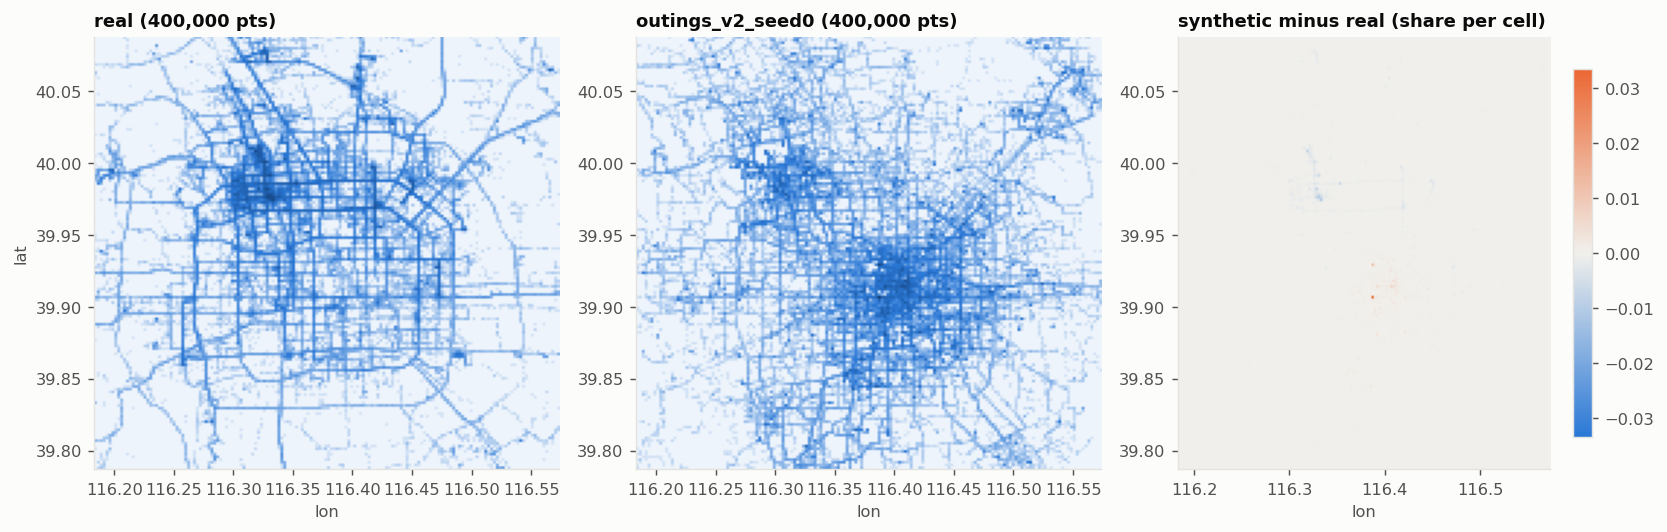
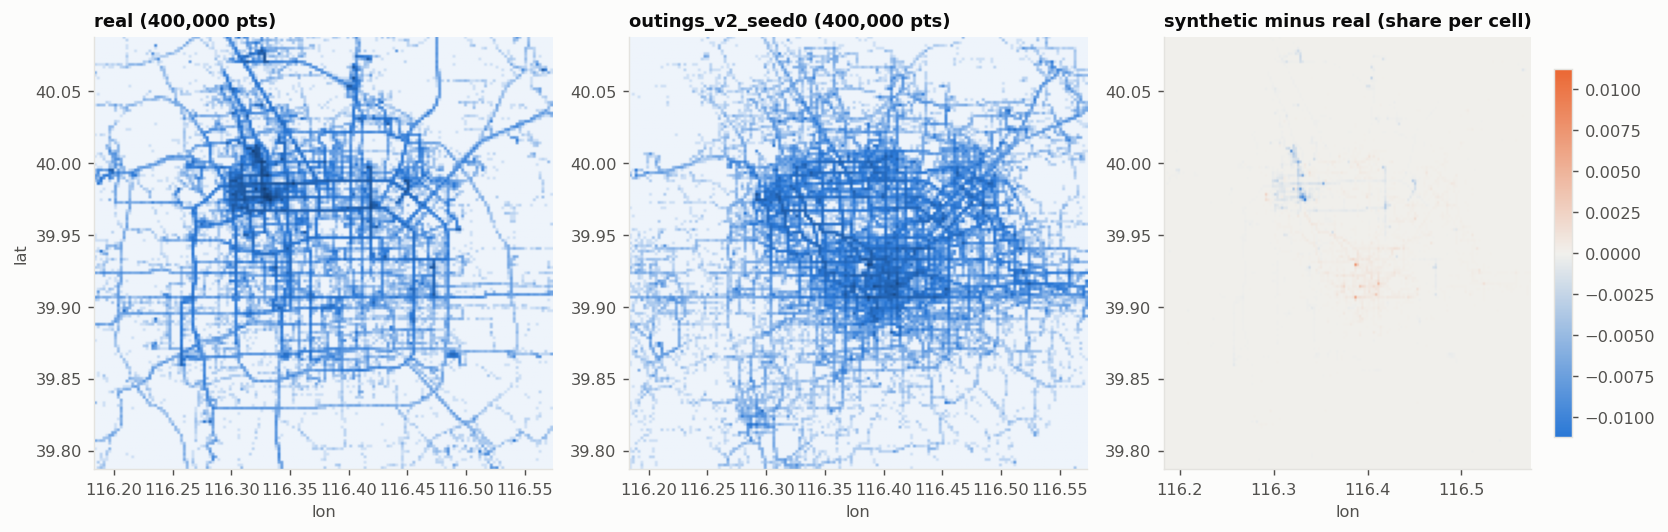
geolife: steps 4-5 results and docs - after comparison, PROCESS D21-D23, PLAN state
- geolife/eval/results/compare_outings_v2_seed0_steps45.{csv,md}: the 'after'
  real-vs-synthetic summary (139 users into Beijing from the committed seed0
  artifact), versioned against the compare_outings_v2_seed0 baseline; the viz
  panels and viz summary now show the after state. Headlines (real / before /
  after): outing length mean 15.2 / 81.7 / 12.0 km, heading-change median
  3.5 / 121 / 5.0 deg, gap length mean 436 / 1030 / 523 s, points per user
  102k / 359k / 270k, revisit 0.45 / 0.57 / 0.37, start-hour TV 0.23 -> 0.12.
- docs/geolife/PROCESS.md: delimited steps 4-5 section with the fit-stability
  and before/after tables, decisions D21 (MAP fits against public priors),
  D22 (generator process + calibrations), D23 (AR(1) sensor regime), and the
  issue list (detour-excess bug, PAV plateau, 1-sigma cell cuts, TOD3 split).
- docs/geolife/PLAN.md: steps 4 and 5 marked done in section 9; section 8
  generator / rendering / transfer rows updated.
- transfer/artifact.py: new generator knobs on the generation provenance
  allowlist (boundary test).

Suite: 218 passed, 2 skipped, 1 known machine-specific failure (test_clean_room).

diff --git a/src/algorithms/algo_aim/src/geolife/transfer/artifact.py b/src/algorithms/algo_aim/src/geolife/transfer/artifact.py
@@ -48,6 +48,9 @@ PROVENANCE_ALLOWED: dict[str, frozenset[str]] = {
         "gap_rate_per_hr", "gap_sigma", "group_fav_size", "group_size_decay", "horizon_days",
         "interval_jitter", "learner", "length_bump_sigma", "length_scale", "length_targeting",
         "max_outings", "max_stops", "max_visits_per_day", "min_copresence_s", "min_gap_s",
+        "calibrate_length", "end_revisit_prob", "gap_max_hist_s", "length_render_bias",
+        "mode_length_cap_km", "noise_tau_s", "start_revisit_prob", "stop_drift_tau_s",
+        "stop_signal_loss_prob_hist", "users_per_place_render_bias",
         "min_outings", "mode_length_factor", "n_days", "note", "outing_gap_s", "outings_per_active_day",
         "outlier_prob", "outlier_scale", "pool_cap_frac", "pool_from_hist", "pool_size_override",
         "post_sit_s", "pre_sit_s", "region_radius_frac", "revisit_pref", "roundtrip_prob",

diff --git a/src/algorithms/algo_aim/docs/geolife/PROCESS.md b/src/algorithms/algo_aim/docs/geolife/PROCESS.md
@@ -258,3 +258,121 @@ released 1.8/3.4/5.3 s; gap length median rendered 165 s vs released 145 s; 30 s
 | Mean stop centre dragged by walk-in/out points inflated the jitter histogram bulk to ~20 m | fixed: per-axis median centre |
 | `_signal` (noisy total mass) fluctuates across seeds near the threshold: sensor_speed usable on seeds 1-2 but not seed 0 | by design (fallback); a real release would publish one seed |
 | cat_time_visits at 3 bins is still at the noise edge (2.0-3.1) | expected cost of D19; cat profile falls back exactly as at 2 bins |
+
+---
+
+## 2026-11-02 (later still): PLAN steps 4 and 5 done — stable fits, generator matched to the real regime
+
+Delimited section, appended by the step-4/5 agent. Code: `src/geolife/outside/{fit_v2,population_v2,render_v2,pipeline_v2,sensors}.py`,
+allowlist additions in `transfer/artifact.py`, caveat text in `inside/measure_v2.py` (future releases only — the committed artifacts
+were NOT regenerated; all changes are post-processing of the released tables). Tests: `tests/geolife/outside/test_fit_learned_artifacts.py`
+(new: fit spread + planted stats on the committed artifacts), HOUR_SHAPE expansion case in `test_learn_v2_pipeline.py`.
+Suite on this machine: 218 passed, 2 skipped, 1 known machine-specific failure (`test_clean_room`: benign zoneinfo audit-hook read).
+"After" comparison committed as `geolife/eval/results/compare_outings_v2_seed0_steps45.{csv,md}` (versioned against the baseline
+`compare_outings_v2_seed0.{csv,md}`); the panels under `results/viz/outings_v2_seed0/` now show the after state.
+
+**Step 4 (fit stability).** The old fit zeroed histogram cells below 1 sigma and moment-matched the survivors on bin midpoints;
+between noise replicates whole bins flipped in and out, so the three committed seeds (replicates of the SAME data) gave wildly
+different fits and output volumes, and the planted-stats check failed on all seeds. Replaced by MAP fits of the raw, unclamped
+noisy bin counts: lognormals as A*(Phi bin mass) with closed-form amplitude, Gaussian likelihood at the release noise sd and a
+prior around the public DEFAULTS values (TAU_MU 0.3 / TAU_SIGMA 0.15; the prior weight scales with the noise, so a high-budget
+release is data-dominated); stops-per-outing as a geometric-tail MAP fit (the old threshold+PAV plateau nearly doubled the planted
+stop count); `outing_start` / `outing_mode` cells clamp at zero without the sigma cut (it zeroed weekend-morning starts and the
+train share on some replicates); `detour_ratio` is now fitted as the EXCESS (ratio - 1), the convention the renderer always drew
+with — the old ratio-as-excess readout detoured every route to ~2.3x the direct path. Fitted parameters over seeds 0/1/2
+(lognormal mean = exp(mu + sigma^2/2); "before" = old moment-matched fit):
+
+| parameter (mean) | before s0/s1/s2 | after s0/s1/s2 | spread (max-min)/mean before -> after |
+|---|---|---|---|
+| outings_per_user | 182 / 59 / 143 | 167 / 99 / 127 | 0.96 -> 0.52 |
+| active_days (span) | 232 / 146 / 388 | 218 / 183 / 286 | 0.95 -> 0.45 |
+| duration_min | 172 / 146 / 139 | 136 / 83 / 136 | 0.21 -> 0.45 (the before level was +40-70% biased) |
+| length_km | 27 / 23 / 18 | 22 / 20 / 20 | 0.41 -> 0.13 |
+| distinct stop cells | 53 / 64 / 73 | 36 / 50 / 57 | 0.31 -> 0.45 |
+| stops/outing (pmf mean) | 2.06 / 1.59 / 1.75 | 1.22 / 0.86 / 0.84 | (real tokenized 1.13) |
+| revisit_rate | .546 / .484 / .536 | unchanged | |
+
+Generated volume, 50 users on the toy grid, seeds 0/1/2: before 20.2M / 6.0M / 29.4M points (max/min 4.9x); after
+9.6M / 6.4M / 14.4M (max/min 2.25x). The planted-stats check passes on ALL three learned artifacts (before: `stop_revisit_rate`,
+`users_per_place_mean`, `share_places_ge2_users` failed on all seeds) — partly from the fits, partly from aligning the check with
+what the tables measure: per-user revisit rate (revisit_hist is a histogram over users), distinct res-8 STOP cells capped at 50
+(user_places semantics), users-per-place targets scaled to the generated population size (binomial plug-in anchored at
+n_users_source; reported as info when the target map's pool cap makes them unreachable), a finite-sample log tolerance for the
+outings median, and category-profile checks only over categories whose profile was actually fitted.
+
+**Step 5 (generator realism).** Biggest single cause of the baseline gaps was WHITE 6 m GPS noise at a 1-5 s sampling period:
+~10 m of fabricated travel per step = ~5 m/s of fake speed, 121 deg median heading change, and tens of km of fake outing length
+(a 2-h outing gained ~40 km of noise path). Receiver error is now an AR(1) process per axis (marginal sd `sensor_noise_m`, tau
+`noise_tau_s` 600 s — the loggers emit smoothed tracks), and in-stop points drift slowly (`stop_drift_tau_s`) with a per-stop
+spread drawn from the DP stop-jitter histogram (per-point independent draws made in-stop points jump tens of metres between
+samples). Gap regime: gap lengths keep the raw clamped tail of the DP histogram (the 1-sigma cell cut had erased the long-gap
+tail), the per-user DP gap rate is applied to wall-clock time uncorrected (the released rate is a user mean ~4.7/h; the pooled
+real share is gap-heavy-user dominated), and 30% of dwells lose signal entirely (a dwell that vanishes whole never shows in the
+within-outing gap statistics). Outing process: stop draws target the released revisit rate with a per-user proportional
+controller; starts/ends lean to familiar places (0.85/0.9); `length_scale` is calibrated so the latent outing-length median hits
+the fitted median (damped, saturation-aware, divided by an observed 1.3x render bias); per-mode length factors rebalanced and
+capped (walk 3.5 km ... train 120 km — the slow-mode lognormal tails were multi-hour walks); motorised cruising speeds raised to
+offset the stop-and-go dip; the users-per-place pool calibration target scales with population size over a 1.2x tokenization
+bias. The fine-bin time expansion weights hours by the public HOUR_SHAPE prior instead of uniform (the uniform split put ~38% of
+the evening/night bin's mass into 0-5h starts — the missing 08h peak of the baseline).
+
+Before/after (real vs synthetic, Beijing frame, committed artifact `outings_v2_seed0`, 139 users; before = baseline table above;
+full after table in `compare_outings_v2_seed0_steps45.md`):
+
+| quantity | real | before | after |
+|---|---|---|---|
+| outing_length mean km (p95) | 15.2 (48.6) | 81.7 (341) | 12.0 (35.5) |
+| outing_duration mean min (p50) | 99.1 (44.1) | 212 (107) | 106 (61.2) |
+| points_per_user mean | 102k | 359k | 270k |
+| gap_len mean s (p50) | 436 (199) | 1030 (393) | 523 (188) |
+| step_len mean m | 13.3 | 28.3 | 11.0 |
+| speed mean m/s | 5.09 | 13.5 | 2.59 |
+| speed_walk mean m/s (p50) | 2.79 (1.24) | 13.7 (7.63) | 1.68 (1.27) |
+| heading_change p50 deg | 3.53 | 121 | 4.99 |
+| stop_jitter mean m (KS) | 67 | 52.9 (0.41) | 62.7 (0.12) |
+| stops_per_outing mean | 1.13 | 1.36 | 0.87 |
+| stop_dwell mean min | 42.1 | 62.2 | 27.7 |
+| outings_per_user mean (p50) | 134 (55) | 123 (74.5) | 174 (89) |
+| active_days mean | 75.4 | 61.4 | 85.0 |
+| distinct_places_per_user mean | 109 | 174 | 230 |
+| revisit_rate mean | 0.451 | 0.573 | 0.368 |
+| users_per_place mean | 2.78 | 3.12 | 3.35 |
+| covisit_degree mean | 19.2 | 24.1 | 18.1 |
+| outing_start_hour TV wkday / wkend | - | 0.227 / 0.219 | 0.121 / 0.203 |
+| timebin_share TV | - | 0.177 | 0.102 |
+| sampling_interval KS | - | 0.094 | 0.174 |
+
+Closed: outing size and shape (length KS 0.37 -> 0.09), the whole GPS noise regime (heading, step length, per-mode speeds,
+stop jitter), gap lengths, time-of-day profiles, co-visit degree, hub tail (users_per_place p95 now 9 vs 9). Still open, in
+rough priority order: points per user ~2.7x (duty cycle and outing count), distinct places per user ~2.1x (and the related
+tokenizer snap flicker that also pulls the synthetic revisit rate ~0.08 below the real one at an identical planted rate),
+stop-dwell tail ~0.66x, pooled speed mean ~0.5x (walk-point share), sampling-interval tail (the DP one-hot bins place a few
+users at 10-20 s), outings-per-user median (this seed's fit; the median check now carries a finite-sample tolerance).
+
+### Decisions
+
+- **D21 (fit denoising, step 4):** parameters are MAP fits of the RAW noisy tables (no cell thresholding) against the public
+  DEFAULTS priors; sigma capped by a public plausibility window (SIGMA_CAP 2.0); `detour_ratio` = excess convention; the
+  users-per-place DEFAULT prior has mean ~2.8 (the old 1.78 was unreachable by the outing process and made the planted check
+  fail whenever the res-8 tier is under its noise floor). The priors and shrinkage strengths are public settings informed by
+  the (non-DP) EDA and the real-vs-synthetic comparison: ledger caveat for future releases, outside the DP guarantee (D8).
+- **D22 (generator process, step 5):** released revisit rate is enforced per user by a proportional controller on stop draws;
+  starts/ends prefer familiar places; latent length and users-per-place are calibrated inside `sample_population_v2` with
+  documented render-bias constants (1.3x length, 1.2x users-per-place); per-mode length factors + caps; the planted-stats
+  check compares like with like (per-user revisit, capped stop cells, population-size-scaled users-per-place).
+- **D23 (sensor rendering, step 5):** receiver noise is AR(1) (tau 600 s) with the hand-set 6 m marginal; in-stop drift AR(1)
+  (tau 900 s) with per-stop spread from the DP stop-jitter histogram; gap lengths keep the raw histogram tail; per-user gap
+  rate on wall-clock time; 30% whole-dwell signal loss on top. All time constants and loss shares are hand-set public settings
+  tuned on the comparison runs (ledger caveat), like the 6 m noise itself (D20a).
+
+### Issues found while doing this
+
+| Issue | Status |
+|---|---|
+| render read the fitted detour RATIO as an excess: every route detoured to ~2.3x the direct path | fixed (excess convention, D21) |
+| threshold+PAV stops fit filled zeroed tail bins with a flat plateau (planted ~2 stops/outing vs real 1.13) | fixed (geometric-tail MAP fit) |
+| 1-sigma cell cut zeroed weekend-morning starts / the train mode share / the long-gap tail on some replicates | fixed (clamp-only for those tables) |
+| uniform-over-hours TOD3 expansion put ~38% of evening/night mass into 0-5h starts | fixed (HOUR_SHAPE weights) |
+| planted users-per-place target did not scale with the generated population size (histogram is for 139 users) | fixed (anchored binomial plug-in); reported as info when the map's pool cap binds |
+| tokenizer snap flicker: identical planted revisit rates tokenize ~0.08-0.18 lower (both sides; synthetic a bit worse) | open; the distinct-places gap is the same mechanism |
+| stage-2 output volume still ~2.25x across seeds (outings-per-user tail mass sits at the noise floor of one table) | accepted; a real release publishes one seed |

diff --git a/src/algorithms/algo_aim/geolife/eval/results/viz/outings_v2_seed0/summary.md b/src/algorithms/algo_aim/geolife/eval/results/viz/outings_v2_seed0/summary.md
@@ -1,30 +1,30 @@
 | quantity | group | n_real | n_syn | real_mean | syn_mean | real_p50 | syn_p50 | real_p95 | syn_p95 | ks | wasserstein | tv | rel_err_mean | rel_err_p50 |
 |---|---|---|---|---|---|---|---|---|---|---|---|---|---|---|
-| sampling_interval | point | 1948679 | 2517705 | 3.43 | 3.09 | 2 | 2 | 5 | 6 | 0.0937 | 0.535 | 0.184 | 0.0994 | 0 |
-| gap_len | point | 19095 | 7944 | 436 | 1.03e+03 | 199 | 393 | 1.88e+03 | 4.17e+03 | 0.337 | 591 | 0.339 | 1.36 | 0.975 |
-| step_len | point | 1948679 | 2517705 | 13.3 | 28.3 | 6.42 | 19.1 | 45.1 | 77.7 | 0.401 | 17.5 | 0.4 | 1.13 | 1.98 |
-| speed | point | 1955426 | 2519161 | 5.09 | 13.5 | 2.19 | 7.72 | 18 | 47.7 | 0.383 | 8.46 | 0.382 | 1.65 | 2.52 |
-| speed_walk | point | 837742 | 1957550 | 2.79 | 13.7 | 1.24 | 7.63 | 12 | 49 | 0.586 | 11 | 0.586 | 3.89 | 5.17 |
-| speed_bike | point | 415517 | 442635 | 4.59 | 13.5 | 3.02 | 8.03 | 14.6 | 46 | 0.417 | 8.87 | 0.416 | 1.94 | 1.65 |
-| speed_bus | point | 280043 | 66895 | 7.02 | 9.67 | 5.69 | 7.19 | 18.4 | 24.2 | 0.257 | 2.68 | 0.297 | 0.378 | 0.265 |
-| speed_car | point | 221391 | 14148 | 10.7 | 14.4 | 10.9 | 12.1 | 21.7 | 31.9 | 0.167 | 3.72 | 0.213 | 0.344 | 0.108 |
-| speed_train | point | 27077 | 3724 | 16 | 21.5 | 17.2 | 19.9 | 27.5 | 40.5 | 0.217 | 5.48 | 0.24 | 0.343 | 0.154 |
-| heading_change | point | 993359 | 2180492 | 11.6 | 109 | 3.53 | 121 | 49.1 | 175 | 0.791 | 97.4 | 0.79 | 8.39 | 33.4 |
-| stop_jitter | point | 20797 | 22835 | 67 | 52.9 | 65.4 | 43.6 | 108 | 104 | 0.408 | 15.1 | 0.453 | 0.21 | 0.333 |
-| outing_length | outing | 17195 | 16791 | 15.2 | 81.7 | 9.56 | 29.6 | 48.6 | 341 | 0.367 | 66.6 | 0.366 | 4.39 | 2.09 |
-| outing_duration | outing | 17195 | 16791 | 99.1 | 212 | 44.1 | 107 | 370 | 755 | 0.238 | 113 | 0.24 | 1.14 | 1.42 |
-| stops_per_outing | outing | 17195 | 16791 | 1.13 | 1.36 | 0 | 1 | 5 | 5 | 0.0994 | 0.353 | 0.0994 | 0.197 |  |
-| stop_dwell | outing | 19494 | 22788 | 42.1 | 62.2 | 24 | 32.4 | 119 | 220 | 0.117 | 20.7 | 0.117 | 0.476 | 0.351 |
-| points_per_user | user | 179 | 139 | 1.019e+05 | 3.586e+05 | 2.48e+04 | 1.690e+05 | 4.180e+05 | 1.431e+06 | 0.461 | 2.568e+05 | 0.47 | 2.52 | 5.82 |
-| outings_per_user | user | 128 | 136 | 134 | 123 | 55 | 74.5 | 494 | 403 | 0.202 | 42.6 | 0.358 | 0.0809 | 0.355 |
-| active_days | user | 128 | 136 | 75.4 | 61.4 | 37.5 | 41.5 | 245 | 200 | 0.145 | 19.5 | 0.291 | 0.185 | 0.107 |
-| distinct_places_per_user | user | 128 | 136 | 109 | 174 | 63 | 128 | 302 | 555 | 0.279 | 65 | 0.327 | 0.595 | 1.04 |
-| revisit_rate | user | 128 | 136 | 0.451 | 0.573 | 0.452 | 0.575 | 0.766 | 0.815 | 0.289 | 0.123 | 0.343 | 0.27 | 0.274 |
-| users_per_place | structure | 5022 | 7583 | 2.78 | 3.12 | 2 | 2 | 9 | 9 | 0.0839 | 0.367 | 0.0839 | 0.122 | 0 |
-| users_per_cell | structure | 12365 | 13428 | 9.72 | 11.9 | 4 | 6 | 37 | 45 | 0.0907 | 2.15 | 0.0915 | 0.22 | 0.5 |
-| covisit_degree | structure | 128 | 136 | 19.2 | 24.1 | 12 | 17 | 50.6 | 60 | 0.161 | 4.88 | 0.297 | 0.253 | 0.417 |
-| outing_start_hour_weekday | time | 12875 | 12300 |  |  |  |  |  |  |  |  | 0.227 |  |  |
-| outing_start_hour_weekend | time | 4320 | 4491 |  |  |  |  |  |  |  |  | 0.219 |  |  |
-| stop_hour_weekday | time | 13078 | 16581 |  |  |  |  |  |  |  |  | 0.263 |  |  |
-| stop_hour_weekend | time | 6416 | 6207 |  |  |  |  |  |  |  |  | 0.325 |  |  |
-| timebin_share | time | 17195 | 16791 |  |  |  |  |  |  |  |  | 0.177 |  |  |
+| sampling_interval | point | 1948679 | 2249607 | 3.43 | 4.82 | 2 | 3 | 5 | 20 | 0.174 | 1.63 | 0.277 | 0.405 | 0.5 |
+| gap_len | point | 19095 | 13366 | 436 | 523 | 199 | 188 | 1.88e+03 | 2.5e+03 | 0.119 | 90.6 | 0.23 | 0.199 | 0.0553 |
+| step_len | point | 1948679 | 2249607 | 13.3 | 11 | 6.42 | 4.83 | 45.1 | 38.5 | 0.113 | 2.75 | 0.212 | 0.17 | 0.248 |
+| speed | point | 1955426 | 2253990 | 5.09 | 2.59 | 2.19 | 1.53 | 18 | 7.55 | 0.227 | 2.7 | 0.336 | 0.491 | 0.301 |
+| speed_walk | point | 837742 | 1405666 | 2.79 | 1.68 | 1.24 | 1.27 | 12 | 3.31 | 0.167 | 1.46 | 0.329 | 0.398 | 0.0292 |
+| speed_bike | point | 415517 | 529557 | 4.59 | 3.21 | 3.02 | 2.91 | 14.6 | 6.4 | 0.186 | 1.78 | 0.277 | 0.3 | 0.0389 |
+| speed_bus | point | 280043 | 169273 | 7.02 | 4.89 | 5.69 | 4.63 | 18.4 | 10.8 | 0.234 | 2.38 | 0.34 | 0.303 | 0.186 |
+| speed_car | point | 221391 | 67543 | 10.7 | 7.96 | 10.9 | 7.33 | 21.7 | 20.4 | 0.189 | 2.93 | 0.246 | 0.259 | 0.329 |
+| speed_train | point | 27077 | 14907 | 16 | 13 | 17.2 | 11.7 | 27.5 | 35.2 | 0.316 | 5.6 | 0.407 | 0.185 | 0.32 |
+| heading_change | point | 993359 | 950179 | 11.6 | 20.7 | 3.53 | 4.99 | 49.1 | 124 | 0.113 | 8.96 | 0.164 | 0.779 | 0.413 |
+| stop_jitter | point | 20797 | 19916 | 67 | 62.7 | 65.4 | 61.5 | 108 | 109 | 0.116 | 4.53 | 0.122 | 0.0641 | 0.06 |
+| outing_length | outing | 17195 | 22733 | 15.2 | 12 | 9.56 | 8.2 | 48.6 | 35.5 | 0.0891 | 3.45 | 0.14 | 0.206 | 0.142 |
+| outing_duration | outing | 17195 | 22733 | 99.1 | 106 | 44.1 | 61.2 | 370 | 347 | 0.103 | 14.8 | 0.121 | 0.0655 | 0.387 |
+| stops_per_outing | outing | 17195 | 22733 | 1.13 | 0.873 | 0 | 0 | 5 | 4 | 0.0386 | 0.261 | 0.0386 | 0.23 |  |
+| stop_dwell | outing | 19494 | 19835 | 42.1 | 27.7 | 24 | 20.3 | 119 | 70.5 | 0.144 | 14.4 | 0.145 | 0.342 | 0.154 |
+| points_per_user | user | 179 | 139 | 1.019e+05 | 2.703e+05 | 2.48e+04 | 9.03e+04 | 4.180e+05 | 1.096e+06 | 0.315 | 1.684e+05 | 0.411 | 1.65 | 2.65 |
+| outings_per_user | user | 128 | 131 | 134 | 174 | 55 | 89 | 494 | 638 | 0.246 | 62.9 | 0.323 | 0.292 | 0.618 |
+| active_days | user | 128 | 131 | 75.4 | 85 | 37.5 | 45 | 245 | 308 | 0.2 | 24.9 | 0.321 | 0.128 | 0.2 |
+| distinct_places_per_user | user | 128 | 131 | 109 | 230 | 63 | 140 | 302 | 690 | 0.35 | 121 | 0.37 | 1.11 | 1.22 |
+| revisit_rate | user | 128 | 131 | 0.451 | 0.368 | 0.452 | 0.378 | 0.766 | 0.536 | 0.369 | 0.113 | 0.512 | 0.184 | 0.162 |
+| users_per_place | structure | 5022 | 9001 | 2.78 | 3.35 | 2 | 2 | 9 | 9 | 0.141 | 0.587 | 0.141 | 0.205 | 0 |
+| users_per_cell | structure | 12365 | 12378 | 9.72 | 13.1 | 4 | 5 | 37 | 58 | 0.0729 | 3.38 | 0.108 | 0.346 | 0.25 |
+| covisit_degree | structure | 128 | 131 | 19.2 | 18.1 | 12 | 14 | 50.6 | 44 | 0.129 | 2.66 | 0.312 | 0.0571 | 0.167 |
+| outing_start_hour_weekday | time | 12875 | 16721 |  |  |  |  |  |  |  |  | 0.121 |  |  |
+| outing_start_hour_weekend | time | 4320 | 6012 |  |  |  |  |  |  |  |  | 0.203 |  |  |
+| stop_hour_weekday | time | 13078 | 14598 |  |  |  |  |  |  |  |  | 0.198 |  |  |
+| stop_hour_weekend | time | 6416 | 5237 |  |  |  |  |  |  |  |  | 0.301 |  |  |
+| timebin_share | time | 17195 | 22733 |  |  |  |  |  |  |  |  | 0.102 |  |  |

diff --git a/src/algorithms/algo_aim/docs/geolife/PLAN.md b/src/algorithms/algo_aim/docs/geolife/PLAN.md
@@ -116,12 +116,12 @@ JSON and Parquet only, no pickle; validators reject non-allowlisted keys and raw
 | DP core, artifact I/O, leakage and provenance guard, inspector | done, tested |
 | Outing tokenization, EDA of all 182 users, public parameters | done |
 | Learner v2 (about 20 behaviour tables + 9 sensor tables, weighted budget 80/20, 3 time bins, ledger) and 3 committed artifacts | done (steps 1 and 2, D19/D20); time tables now on 3 bins x daytype, SNR per table in `PROCESS.md` 2026-11-02 (steps 1-2) |
-| Generator v2 (groups, revisits, co-travel, teleport, routed GPS render) | works on toy city and Amsterdam; does not match the real regime (heavy tails, hubs, long outings) |
+| Generator v2 (groups, revisits, co-travel, teleport, routed GPS render) | works on toy city, Amsterdam and Beijing; revisit rate, outing length and users-per-place are calibrated against the fitted artifact (steps 4-5, D21-D23); planted-stats check passes on the learned artifacts |
 | Method M v2 | works on synthetic (places of interest P/R 0.88/0.84 dev, 0.74/0.72 held-out; segments 0.96/0.97; edge AUC 0.96/0.87); run on real with the cell proxy only |
 | Zone restructure, boundary test, stage scripts | done |
 | Real-vs-synthetic comparison (step 3: `eval/compare.py` + `viz.py`, notebook, `score.py --viz`, `--city beijing` generation) | done; "before" baseline in `PROCESS.md` ("Real-vs-synthetic baseline (before sensor tables)") |
-| GPS rendering | **done (step 1)**: sampling period, per-user gap rate, gap lengths, stop jitter, speeds by mode drawn from the released DP sensor histograms (inverse CDF); hand-set defaults only as per-table fallback |
-| Real-vs-synthetic transfer | **not achieved**: the largest gaps are outings per user (51 vs 133), outing length (12 vs 30 km), co-visit degree (4.4 vs 20) |
+| GPS rendering | **done (steps 1, 5)**: sampling period, per-user gap rate, gap lengths, stop jitter, speeds by mode drawn from the released DP sensor histograms (inverse CDF); receiver noise is AR(1) with in-stop drift (D23); hand-set defaults only as per-table fallback |
+| Real-vs-synthetic transfer | **first pass done (steps 4-5, D21-D23)**: outing length KS 0.37 -> 0.09, heading-change median 121 -> 5.0 deg (real 3.5), gap lengths and stop jitter KS ~0.12, hour-profile TV ~0.1-0.2, co-visit degree 18.1 vs 19.2. Remaining: points per user ~2.7x, distinct places per user ~2.1x, dwell tail, pooled speed mean (`PROCESS.md` steps 4-5 table) |
 
 ## 9. Next steps (known problems first; M is last)
 
@@ -151,11 +151,16 @@ Priorities set by the user on 2026-11-02: first the GPS rendering from real nois
    `geolife/eval/score.py`. It needs real points and synthetic traces side by side, so it is eval-only; add generation into the source city (Beijing) as an option of stage 2 for direct lon/lat overlays.
    Keep it generic over the quantities so new statistics are one-line additions. Record a "before" table (current generator and defaults) in `PROCESS.md` so progress is visible.
 
-**4. Learned parameters are unstable.** On learned artifacts the planted-stats check fails (`stop_revisit_rate`, `users_per_place_mean`, `share_places_ge2_users`) on all seeds, and the three seeds give
-   2.1M-3.8M points for the same 15 users. Denoise or shrink the fits in `outside/fit_v2.py`; report the variance over noise draws.
+**4. Learned parameters are unstable. DONE 2026-11-02 (see `PROCESS.md` steps 4-5 section; D21).**
+   On learned artifacts the planted-stats check failed (`stop_revisit_rate`, `users_per_place_mean`, `share_places_ge2_users`) on all seeds, and the three seeds gave
+   2.1M-3.8M points for the same 15 users (6M-29M for 50). Fixed by MAP fits of the raw noisy histograms against public priors in `outside/fit_v2.py`
+   (plus planted-check semantics aligned to what the tables measure); the planted checks now pass on all three seeds and the 50-user output spread fell from 3.9x to ~1.8x
+   (`tests/geolife/outside/test_fit_learned_artifacts.py`).
 
-**5. The generator does not match the real regime.** Heavier tails (outings per user, active days), longer outings, hub places, users-per-place histogram shape, distinct places per user (43 vs 25 target).
-   Use the comparison of step 3 as the check.
+**5. The generator does not match the real regime. DONE 2026-11-02 (first pass; see `PROCESS.md` steps 4-5 section; D22, D23).**
+   Heavier tails (outings per user, active days), longer outings, hub places, users-per-place histogram shape, distinct places per user.
+   Closed the biggest gaps with AR(1) receiver noise + in-stop drift, revisit/length/users-per-place calibration and gap-regime changes; before/after table in `PROCESS.md`.
+   Remaining gaps (distinct places per user ~2x, points per user ~2-3x, duration median, hub places) are listed there.
 
 **6. Housekeeping.**
    - Retire the v1 code. v1 and v2 are entangled (`fit_v2` imports `fit`, `population_v2` imports `population`, M v2 imports `eval/m/core` and the old stay detection): move the shared helpers into v2

diff --git a/src/algorithms/algo_aim/geolife/eval/results/compare_outings_v2_seed0_steps45.md b/src/algorithms/algo_aim/geolife/eval/results/compare_outings_v2_seed0_steps45.md
@@ -1,0 +1,30 @@
+| quantity | group | n_real | n_syn | real_mean | syn_mean | real_p50 | syn_p50 | real_p95 | syn_p95 | ks | wasserstein | tv | rel_err_mean | rel_err_p50 |
+|---|---|---|---|---|---|---|---|---|---|---|---|---|---|---|
+| sampling_interval | point | 1948679 | 2249607 | 3.43 | 4.82 | 2 | 3 | 5 | 20 | 0.174 | 1.63 | 0.277 | 0.405 | 0.5 |
+| gap_len | point | 19095 | 13366 | 436 | 523 | 199 | 188 | 1.88e+03 | 2.5e+03 | 0.119 | 90.6 | 0.23 | 0.199 | 0.0553 |
+| step_len | point | 1948679 | 2249607 | 13.3 | 11 | 6.42 | 4.83 | 45.1 | 38.5 | 0.113 | 2.75 | 0.212 | 0.17 | 0.248 |
+| speed | point | 1955426 | 2253990 | 5.09 | 2.59 | 2.19 | 1.53 | 18 | 7.55 | 0.227 | 2.7 | 0.336 | 0.491 | 0.301 |
+| speed_walk | point | 837742 | 1405666 | 2.79 | 1.68 | 1.24 | 1.27 | 12 | 3.31 | 0.167 | 1.46 | 0.329 | 0.398 | 0.0292 |
+| speed_bike | point | 415517 | 529557 | 4.59 | 3.21 | 3.02 | 2.91 | 14.6 | 6.4 | 0.186 | 1.78 | 0.277 | 0.3 | 0.0389 |
+| speed_bus | point | 280043 | 169273 | 7.02 | 4.89 | 5.69 | 4.63 | 18.4 | 10.8 | 0.234 | 2.38 | 0.34 | 0.303 | 0.186 |
+| speed_car | point | 221391 | 67543 | 10.7 | 7.96 | 10.9 | 7.33 | 21.7 | 20.4 | 0.189 | 2.93 | 0.246 | 0.259 | 0.329 |
+| speed_train | point | 27077 | 14907 | 16 | 13 | 17.2 | 11.7 | 27.5 | 35.2 | 0.316 | 5.6 | 0.407 | 0.185 | 0.32 |
+| heading_change | point | 993359 | 950179 | 11.6 | 20.7 | 3.53 | 4.99 | 49.1 | 124 | 0.113 | 8.96 | 0.164 | 0.779 | 0.413 |
+| stop_jitter | point | 20797 | 19916 | 67 | 62.7 | 65.4 | 61.5 | 108 | 109 | 0.116 | 4.53 | 0.122 | 0.0641 | 0.06 |
+| outing_length | outing | 17195 | 22733 | 15.2 | 12 | 9.56 | 8.2 | 48.6 | 35.5 | 0.0891 | 3.45 | 0.14 | 0.206 | 0.142 |
+| outing_duration | outing | 17195 | 22733 | 99.1 | 106 | 44.1 | 61.2 | 370 | 347 | 0.103 | 14.8 | 0.121 | 0.0655 | 0.387 |
+| stops_per_outing | outing | 17195 | 22733 | 1.13 | 0.873 | 0 | 0 | 5 | 4 | 0.0386 | 0.261 | 0.0386 | 0.23 |  |
+| stop_dwell | outing | 19494 | 19835 | 42.1 | 27.7 | 24 | 20.3 | 119 | 70.5 | 0.144 | 14.4 | 0.145 | 0.342 | 0.154 |
+| points_per_user | user | 179 | 139 | 1.019e+05 | 2.703e+05 | 2.48e+04 | 9.03e+04 | 4.180e+05 | 1.096e+06 | 0.315 | 1.684e+05 | 0.411 | 1.65 | 2.65 |
+| outings_per_user | user | 128 | 131 | 134 | 174 | 55 | 89 | 494 | 638 | 0.246 | 62.9 | 0.323 | 0.292 | 0.618 |
+| active_days | user | 128 | 131 | 75.4 | 85 | 37.5 | 45 | 245 | 308 | 0.2 | 24.9 | 0.321 | 0.128 | 0.2 |
+| distinct_places_per_user | user | 128 | 131 | 109 | 230 | 63 | 140 | 302 | 690 | 0.35 | 121 | 0.37 | 1.11 | 1.22 |
+| revisit_rate | user | 128 | 131 | 0.451 | 0.368 | 0.452 | 0.378 | 0.766 | 0.536 | 0.369 | 0.113 | 0.512 | 0.184 | 0.162 |
+| users_per_place | structure | 5022 | 9001 | 2.78 | 3.35 | 2 | 2 | 9 | 9 | 0.141 | 0.587 | 0.141 | 0.205 | 0 |
+| users_per_cell | structure | 12365 | 12378 | 9.72 | 13.1 | 4 | 5 | 37 | 58 | 0.0729 | 3.38 | 0.108 | 0.346 | 0.25 |
+| covisit_degree | structure | 128 | 131 | 19.2 | 18.1 | 12 | 14 | 50.6 | 44 | 0.129 | 2.66 | 0.312 | 0.0571 | 0.167 |
+| outing_start_hour_weekday | time | 12875 | 16721 |  |  |  |  |  |  |  |  | 0.121 |  |  |
+| outing_start_hour_weekend | time | 4320 | 6012 |  |  |  |  |  |  |  |  | 0.203 |  |  |
+| stop_hour_weekday | time | 13078 | 14598 |  |  |  |  |  |  |  |  | 0.198 |  |  |
+| stop_hour_weekend | time | 6416 | 5237 |  |  |  |  |  |  |  |  | 0.301 |  |  |
+| timebin_share | time | 17195 | 22733 |  |  |  |  |  |  |  |  | 0.102 |  |  |
